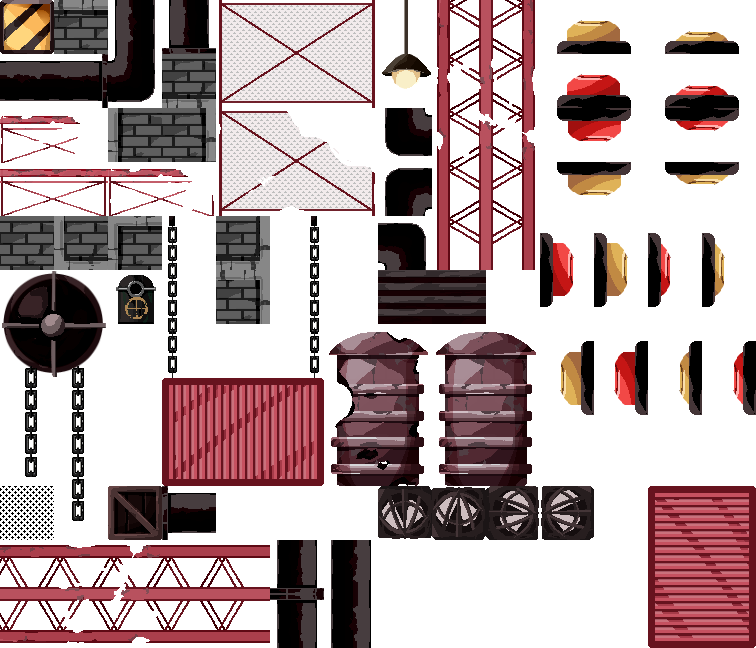
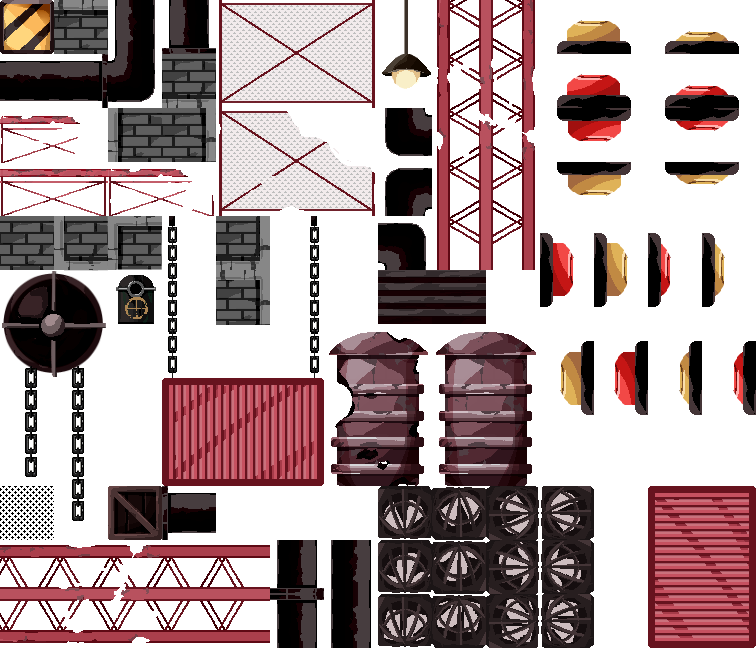
Update

Changed region(s): [[0.4868, 0.7407, 0.791, 1.0]]

diff --git a/SourceCode/Map.h b/SourceCode/Map.h
@@ -106,8 +106,11 @@ public:
         else if (_dir == LEFT) _dir = 136;
         else if (_dir == BLOCK) _dir = 128;
 
-        GameLib::sprite_render(spr.get(), pos.x, pos.y, 1, 1, (_dir % 14) * 54, _dir / 14 * 54, 54, 54, 27, 27, 0.0f, 1, 1, 1, 1);
+        int add_ty = ((timer / 4) % 3) * 54;
+
+        GameLib::sprite_render(spr.get(), pos.x, pos.y, 1, 1, (_dir % 14) * 54, (_dir / 14 * 54) + add_ty, 54, 54, 27, 27, 0.0f, 1, 1, 1, 1);
     }
+    int timer = 0;
 };
 void map_init(std::string map_name);
 void map_update();

diff --git a/SourceCode/Map.cpp b/SourceCode/Map.cpp
@@ -190,10 +190,12 @@ void wind_update()
     {
         if (!fans[alpha].On)
         {
-            if (!fans[alpha].AlwaysOn)
+            if (!fans[alpha].AlwaysOn) {
                 continue;
+            }
             //continue;
         }
+        fans[alpha].timer++;
         int distance{};
         for (int beta = 0; beta < fans.size(); ++beta)
         {
